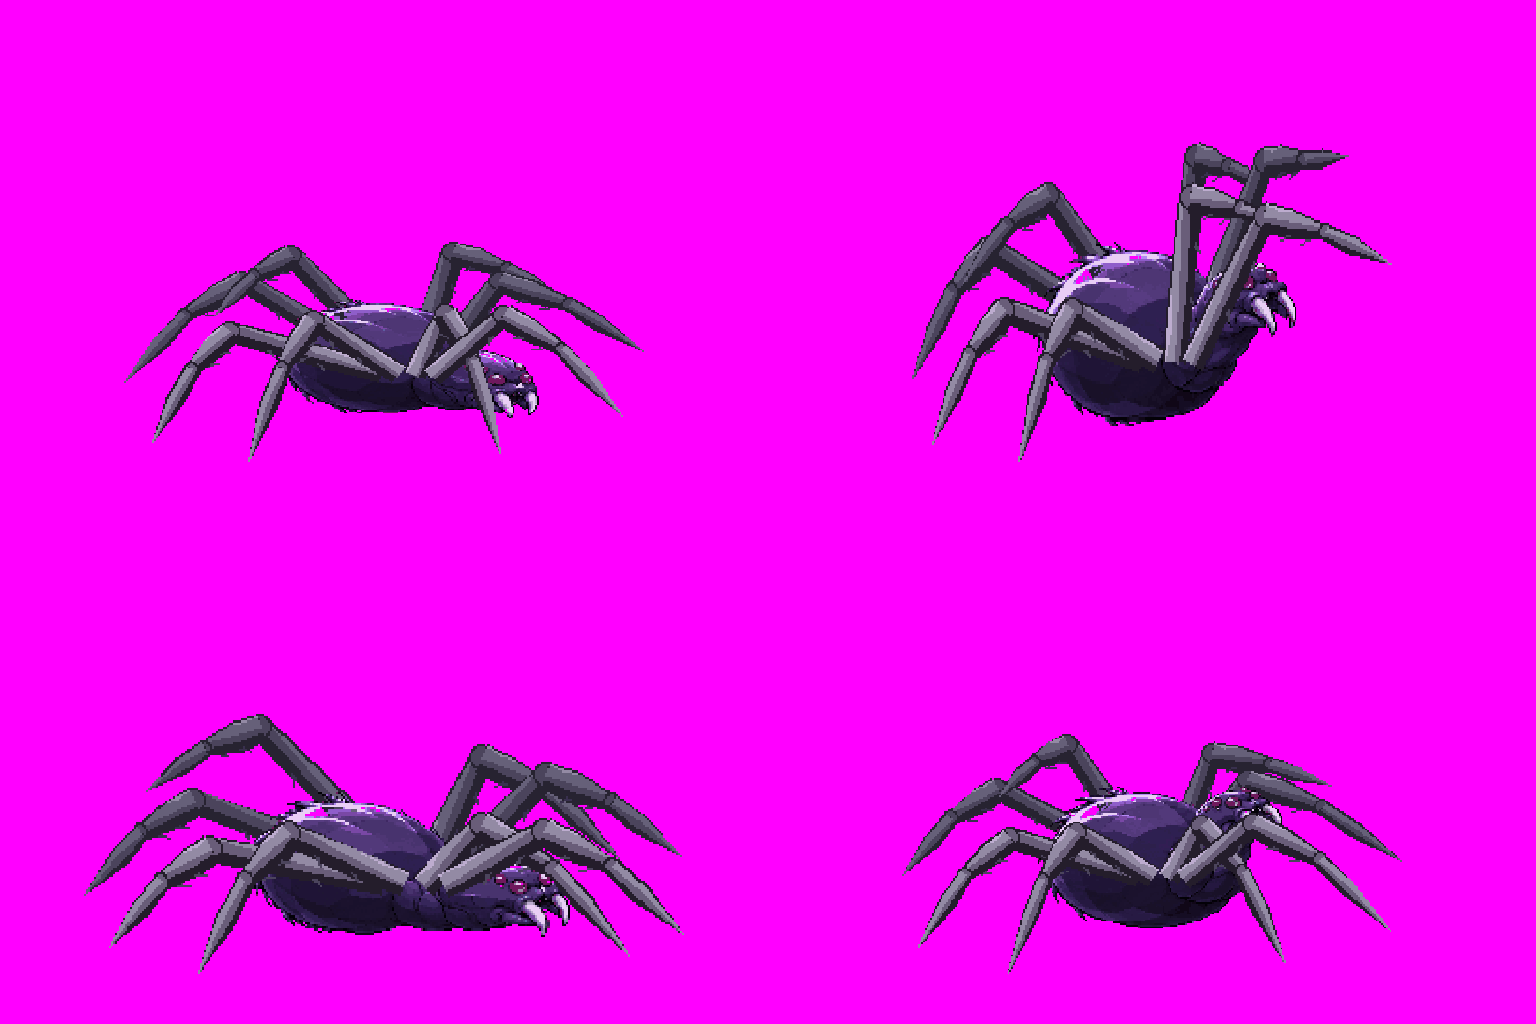
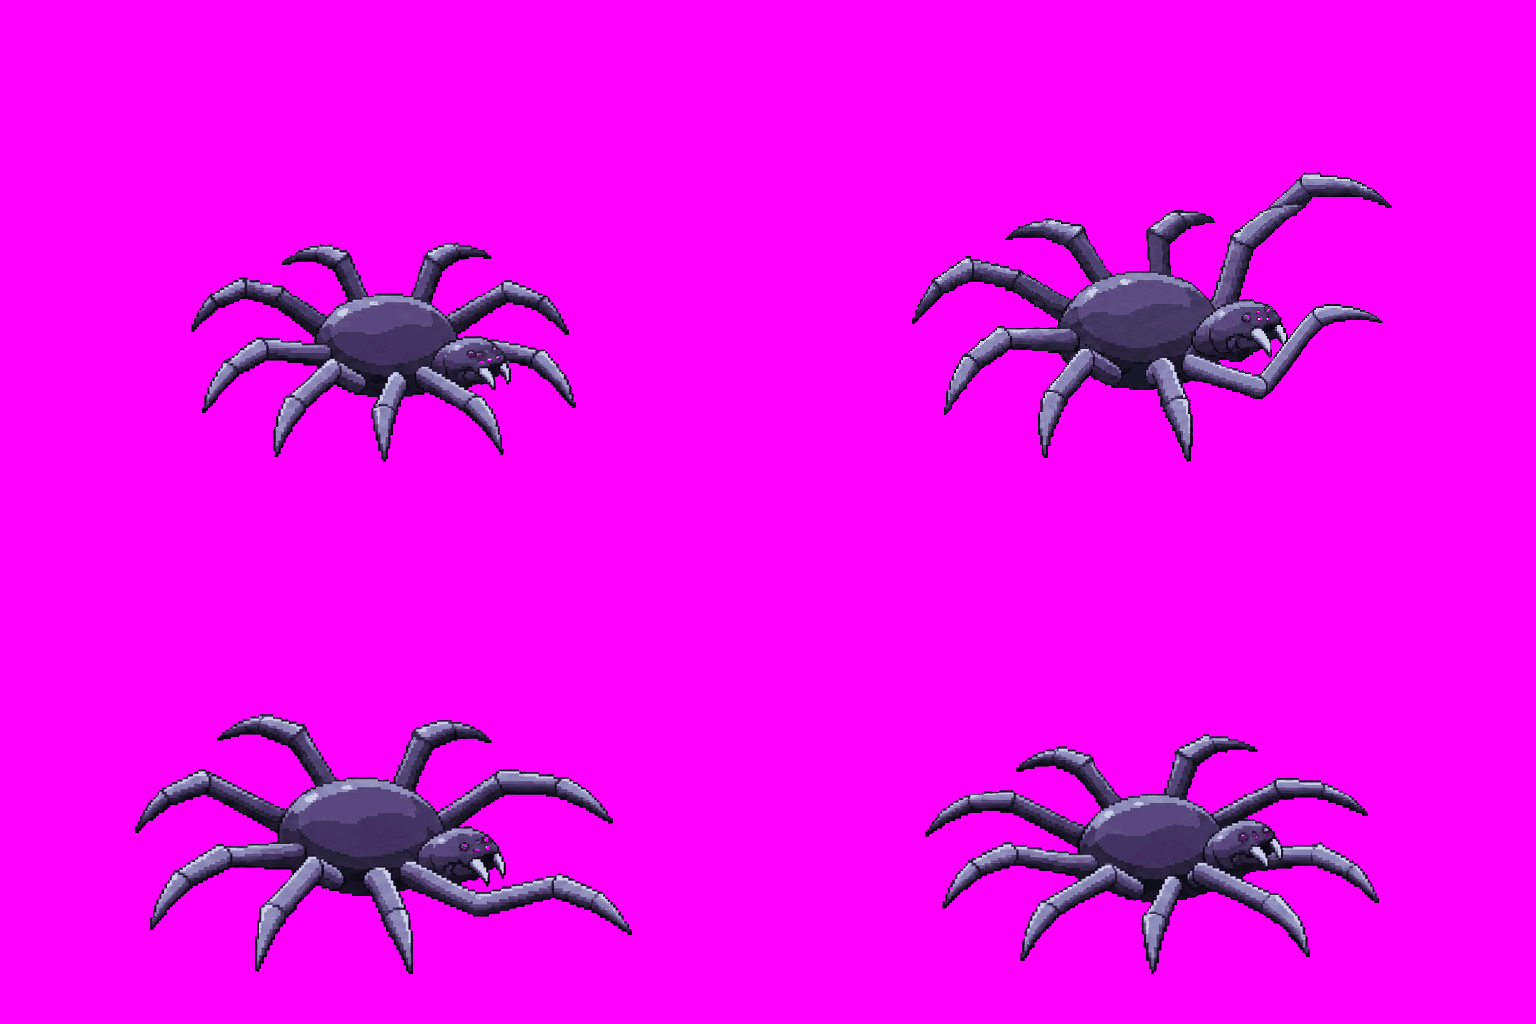
Redraw giant spider with eight readable legs

diff --git a/art/inbox/NOTES.md b/art/inbox/NOTES.md
@@ -322,3 +322,8 @@
 - 게임 크기(0.1654) 전후 비교에서 별 머리가 커지고 자루가 짧아져 지팡이보다 한손 철퇴로 읽힌다(특히 준비·타격).
 - Aseprite 원본: `aseprite/sheet_captain_saintknight.aseprite` (Background = 손질 결과 / original_ref = 받은 PNG, 숨김). 받은 PNG 를 맨 아래에 두고 손질 레이어로 덮으면 지운 자리의 #FF00FF 가 투명으로 처리돼 옛 철퇴가 비쳐서, 이번에는 순서를 바꿨다. 내보내기 = PNG 픽셀 단위 일치.
 - 검사: `check_delivery.py` PASS (39색, 키와 최소 거리 190.1, 네 자세 최하단 y=870, 준비 자세 맨 위 y=353).
+
+## 3단계 — 거대 거미 다시 그리기 (메시지 F)
+
+- `sheet_monster_giant-spider.png`: 기존 짙은 청보라 등껍질·회색 마디 다리·붉은 눈 무리·옅은 독니를 유지했다. 시점을 약간 높여 먼 쪽 네 다리와 가까운 쪽 네 다리가 겹치지 않게 벌렸다. 준비 자세에서는 좌우 앞다리만 들어 올렸고, 피격 자세에서는 다리를 접지 않고 펼쳤다.
+- 1536×1024, 2×2, 각 칸 최하단 y=461, 전경 39색, 배경 키 최소 RGB 거리 189.4. `check_delivery.py --layout 2x2` 통과. 게임 변환기 로컬 시험(0.1654배, 112px 칸)에서 네 자세 분리와 7칸 출력 통과, 어두운 배경에서 네 자세의 4+4를 확인했다. 대기 자세가 약 64×36px로 기존보다 폭이 좁으니 등록 화면에서 간격 확인. 게임 등록은 하지 않았다.
